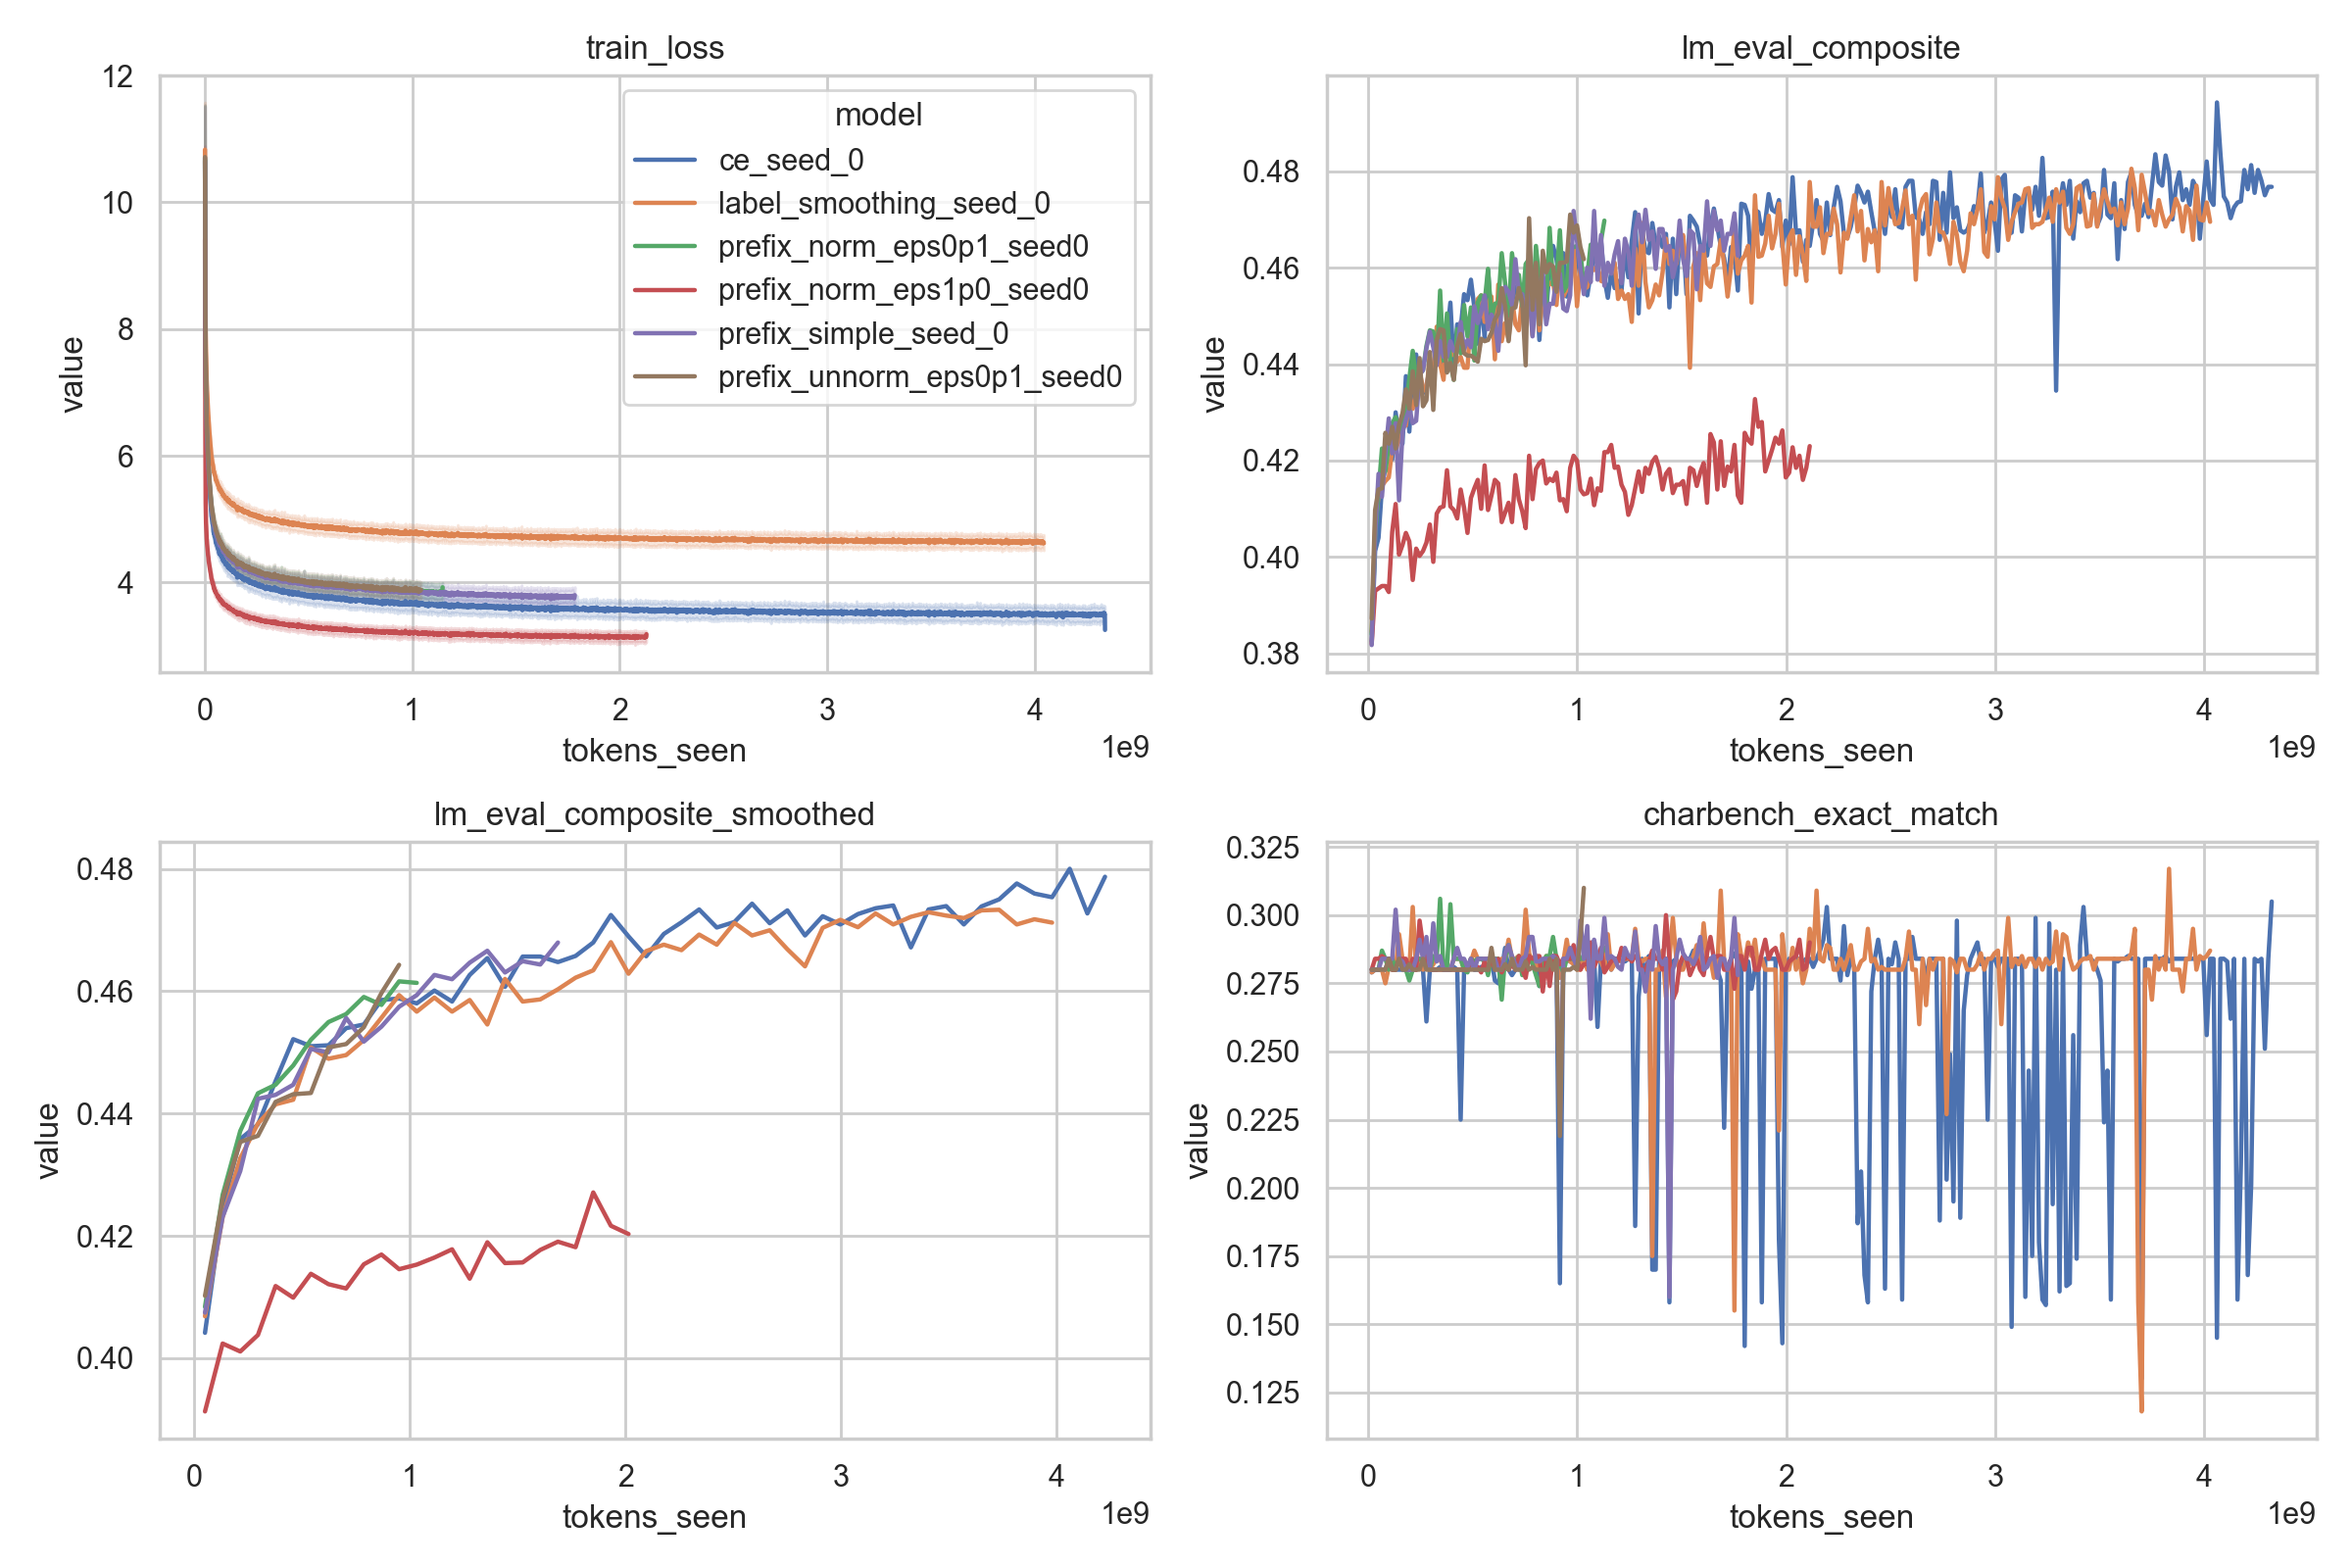
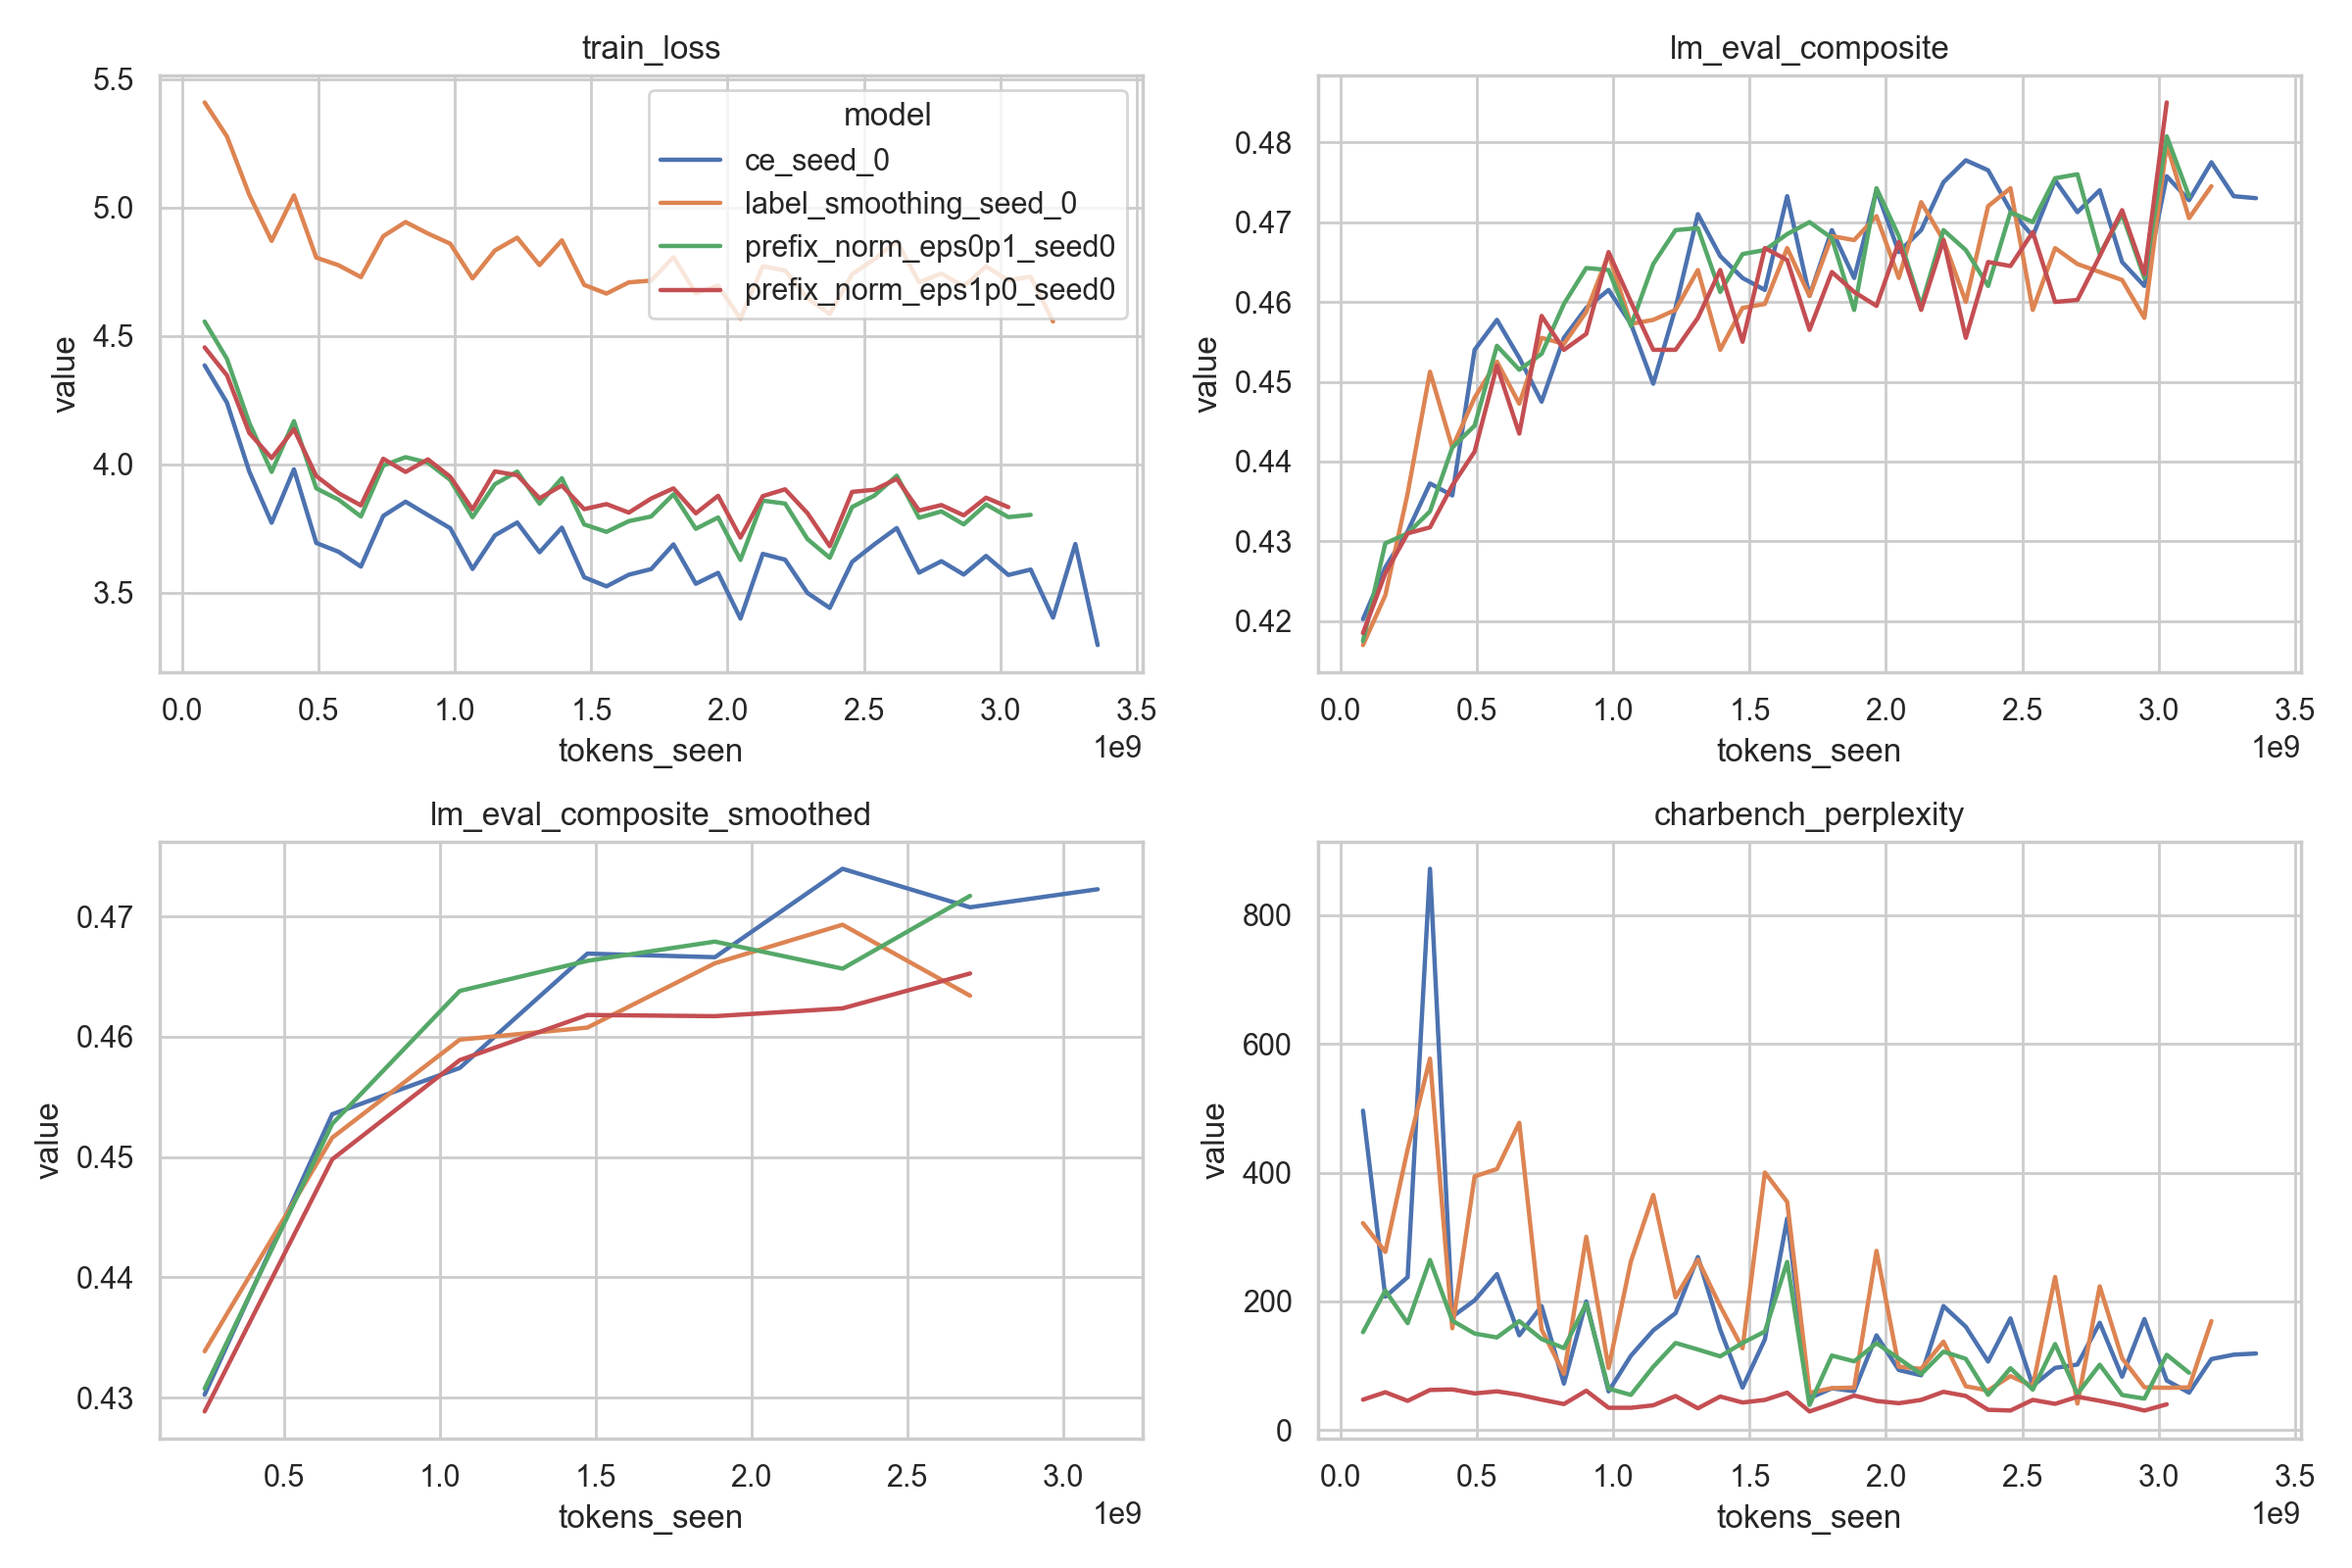
metrics

diff --git a/scripts/plot_metrics.py b/scripts/plot_metrics.py
@@ -141,11 +141,11 @@ def main() -> None:
         ("lm_eval_composite", composite_rows),
         ("lm_eval_composite_smoothed", composite_smoothed),
         (
-            "charbench_exact_match",
+            "charbench_perplexity",
             [
                 r
                 for r in eval_rows
-                if r["task"].startswith("charbench") and r["metric"] == "exact_match"
+                if r["task"].startswith("charbench") and r["metric"] == "perplexity"
             ],
         ),
     ]

diff --git a/README.md b/README.md
@@ -120,7 +120,7 @@ Intermittently during training, we evaluate models with EleutherAI’s `lm-eval-
 │   ├── README.md
 │   └── *.yaml
 ├── scripts/
-├── runai/
+├── cluster/
 │   ├── spinup_workspace.sh
 │   └── submit_train.sh
 ├── docs/
@@ -146,13 +146,13 @@ uv run python scripts/plot_prefix_counts.py --hf-id meta-llama/Meta-Llama-3-8
 ### Submit training runs
 
 ```bash
-bash runai/submit_train.sh configs/ce_seed_0.yaml
-bash runai/submit_train.sh configs/label_smoothing_seed_0.yaml
-bash runai/submit_train.sh configs/prefix_simple_seed_0.yaml
-bash runai/submit_train.sh configs/prefix_norm_eps0p1_seed0.yaml
-bash runai/submit_train.sh configs/prefix_norm_eps1p0_seed0.yaml
-bash runai/submit_train.sh configs/prefix_unnorm_eps0p1_seed0.yaml
-bash runai/submit_train.sh configs/prefix_unnorm_eps1p0_seed0.yaml
+bash cluster/submit_train.sh configs/ce_seed_0.yaml
+bash cluster/submit_train.sh configs/label_smoothing_seed_0.yaml
+bash cluster/submit_train.sh configs/prefix_simple_seed_0.yaml
+bash cluster/submit_train.sh configs/prefix_norm_eps0p1_seed0.yaml
+bash cluster/submit_train.sh configs/prefix_norm_eps1p0_seed0.yaml
+bash cluster/submit_train.sh configs/prefix_unnorm_eps0p1_seed0.yaml
+bash cluster/submit_train.sh configs/prefix_unnorm_eps1p0_seed0.yaml
 ```
 
 ### Plot metrics
